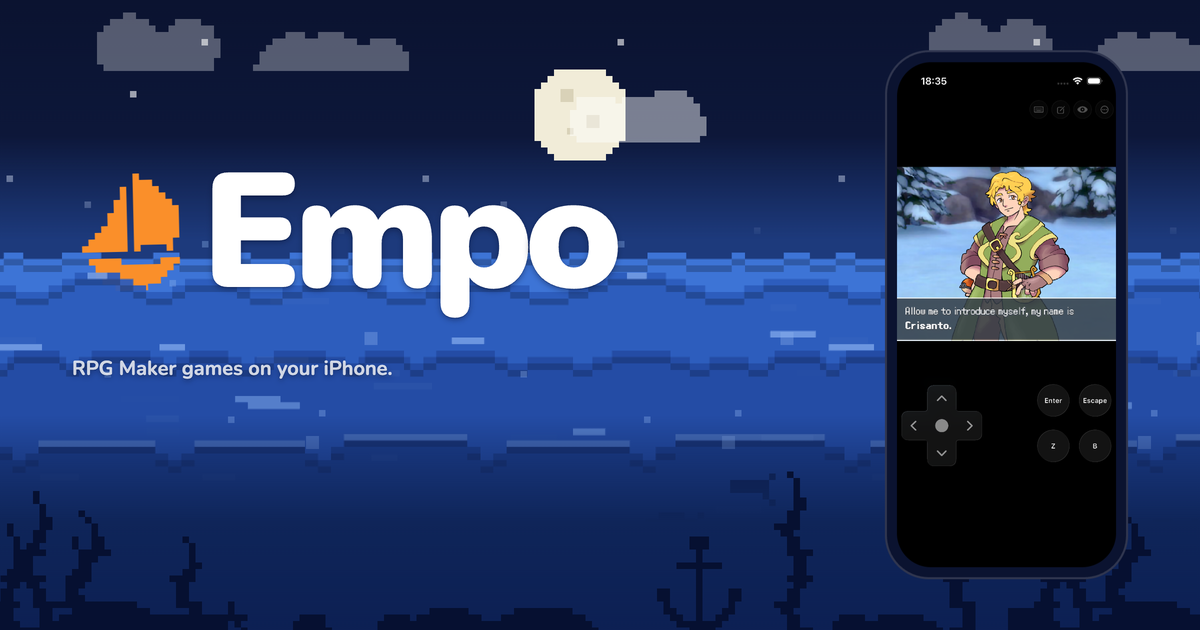
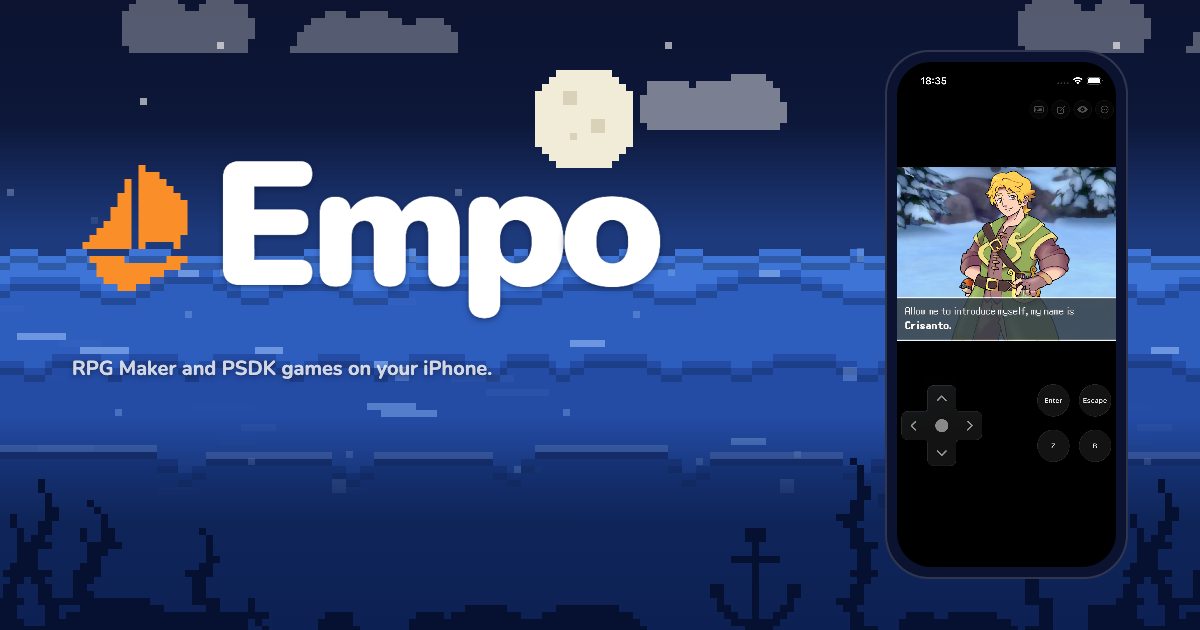
docs(site): name psdk games next to rpg maker games (#154)
* docs(site): name pokemon sdk games next to rpg maker games

* docs(site): say psdk, not the pokemon trademark

* docs(site): remake the share card with the psdk line

diff --git a/blume.config.ts b/blume.config.ts
@@ -2,7 +2,7 @@ import { defineConfig } from "blume";
 
 export default defineConfig({
   title: "Empo",
-  description: "Run RPG Maker games on iPhone and iPad.",
+  description: "Run RPG Maker and PSDK games on iPhone and iPad.",
   logo: "/icon.png",
   banner: "Empo is pre-release. It is not on the App Store.",
   github: {
